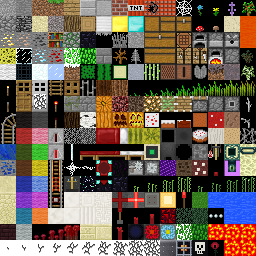
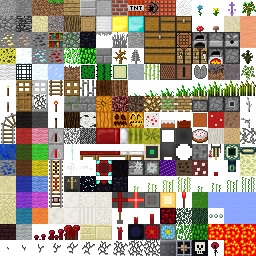
Fix water-entry bobbers, black particles, reed alpha and creative HUD (v43)
- Remove v13 water-entry splash spawn: particles.png tex 33 is the
  fishing-bobber sprite, not a droplet, so entering water spawned
  bobbers (bubbles + splash sound stay, vanilla)
- Remove v13 sprint/landing dust: SmokeParticle colours itself
  random()*0.5 (near-black), reads as fire smoke
- Restore terrain.png alpha channel lost in v39 (RGB re-save):
  13,519 transparent pixels back, reeds cell 73 fixed (115 px),
  spawner cell 251 kept opaque; fixes black bands on reeds and
  black halves on reed break fragments
- XP bar + level now render in creative too (was gated behind
  canHurtPlayer); '...' hotbar slot now drawn as font text (the
  gui.png sprite region is transparent in stock 0.6.1)
- Bump versionCode 42 -> 43

diff --git a/src/world/entity/Entity.cpp b/src/world/entity/Entity.cpp
@@ -488,13 +488,15 @@ void Entity::baseTick()
 		        float zo = (sharedRandom.nextFloat() * 2 - 1) * bbWidth;
 		        level->addParticle(PARTICLETYPE(bubble), x + xo, yt + 1, z + zo, xd, yd - sharedRandom.nextFloat() * 0.2f, zd);
 		    }
-		    // v13: splash droplets on entering water (was commented out;
-		    // SplashParticle is a real Particle subclass now).
-		    for (int i = 0; i < 1 + bbWidth * 20; i++) {
-		        float xo = (sharedRandom.nextFloat() * 2 - 1) * bbWidth;
-		        float zo = (sharedRandom.nextFloat() * 2 - 1) * bbWidth;
-		        level->addParticle(PARTICLETYPE(splash), x + xo, yt + 1, z + zo, xd, yd, zd);
-		    }
+		    // v43: the v13 splash-droplet spawn is REMOVED. SplashParticle
+		    // uses particles.png tex 33, which is NOT a water droplet —
+		    // it is the fishing-bobber sprite (white/red bobber + black
+		    // hook, verified from the sheet + the user video: entering
+		    // water spawned a swarm of bobbers + bubbles, i.e. it looked
+		    // like fishing). The vanilla bubble loop above stays, and the
+		    // splash sound above stays; only the bobber spawn goes.
+		    // (SplashParticle + ParticleType::splash stay for the v24/v25
+		    // thrown-potion impact burst — same sprite, separate trigger.)
 		}
 		fallDistance = 0;
 		wasInWater = true;
@@ -557,17 +559,12 @@ void Entity::checkFallDamage( float ya, bool onGround )
 					Tile::tiles[t]->fallOn(level, xt, yt, zt, this, fallDistance);
 				}
 			}
-			// v13: dust puffs on a hard landing (grey smoke particles at
-			// the feet; count grows with the fall, capped at 8).
-			if (fallDistance > 3.0f) {
-				int n = (int) fallDistance;
-				if (n > 8) n = 8;
-				for (int i = 0; i < n; i++) {
-					float ox = (sharedRandom.nextFloat() * 2 - 1) * 0.4f;
-					float oz = (sharedRandom.nextFloat() * 2 - 1) * 0.4f;
-					level->addParticle("smoke", x + ox, y + 0.1f, z + oz, ox * 0.3f, 0.05f, oz * 0.3f);
-				}
-			}
+			// v43: the v13 landing-dust spawn is REMOVED. It spawned
+			// "smoke" particles whose colour is random()*0.5 (near-black,
+			// SmokeParticle.h), so a hard landing puffed black smoke that
+			// reads as fire/burning — the same black-particle complaint as
+			// the sprint dust (LocalPlayer::tick, also removed in v43).
+			// Modern MC has no landing smoke; nothing else uses this.
 			causeFallDamage(fallDistance);
 			fallDistance = 0;
 		}

diff --git a/src/client/gui/Gui.cpp b/src/client/gui/Gui.cpp
@@ -93,8 +93,15 @@ void Gui::render(float a, bool mouseFree, int xMouse, int yMouse) {
 		renderHunger();
 		renderBubbles();
 		t.endOverrideAndDraw();
-		renderExperience();
 	}
+
+	// v43: the XP bar + level render in creative too (modern MC shows
+	// them in every mode). They used to sit inside the canHurtPlayer()
+	// gate above, so in creative the bar was missing entirely — the
+	// user video (creative test world) shows no XP bar at all above
+	// the hotbar, while the reference has one. Hearts/hunger/bubbles
+	// stay survival-only (correct: creative hides them).
+	renderExperience();
 
 	// v34: boss bar in every game mode (a creative tester summons
 	// with creative skulls, so hiding it behind canHurtPlayer
@@ -974,9 +981,13 @@ void Gui::renderToolBar( float a, int ySlot, const int screenWidth ) {
 
 	if (isMouseLocked && !minecraft->useTouchscreen()) {
 		renderSlot(getNumSlots()-1, (int)x, ySlot, a);
-	} else {
-		blit(screenWidth / 2 + 10 * getNumSlots() - 20 + 4, ySlot + 6, 242, 252, 14, 4, 14, 4);
 	}
+	// v43: the "..." label is drawn as font text below (after the
+	// override batch), NOT blit here. The old blit sampled gui.png
+	// (242,252,14x4), which is fully transparent in the stock 0.6.1
+	// sheet — and it landed inside this gui_blocks batch, so it
+	// sampled grass pixels instead of dots. The slot rendered as an
+	// empty dark slot.
 
 	minecraft->textures->loadAndBindTexture("gui/gui_blocks.png");
 	t.endOverrideAndDraw();
@@ -996,6 +1007,19 @@ void Gui::renderToolBar( float a, int ySlot, const int screenWidth ) {
 	t.endOverrideAndDraw();
 	glEnable(GL_DEPTH_TEST);
 	glEnable(GL_TEXTURE_2D);
+
+	// v43: "..." label for the block-selection slot (see the note at
+	// the old blit site above). Font text, centred in the last slot,
+	// like the modern HUD reference. Same visibility rule as before:
+	// shown whenever the last slot is not a real item slot (touch
+	// always; on PC only while the mouse is free).
+	if (!isMouseLocked || minecraft->useTouchscreen()) {
+		Font* dotsFont = minecraft->font;
+		const char* dots = "...";
+		float dotsW = (float)dotsFont->width(dots);
+		float dotsX = (float)(screenWidth / 2 + 10 * getNumSlots() - 10) - dotsW / 2.0f;
+		dotsFont->drawShadow(dots, dotsX, (float)(ySlot + 6), 0xFFFFFFFF);
+	}
 
 	//w.stop();
 	//w.printEvery(100, "gui-slots");

diff --git a/src/client/player/LocalPlayer.cpp b/src/client/player/LocalPlayer.cpp
@@ -168,12 +168,12 @@ void LocalPlayer::tick() {
 				? FoodConstants::EXHAUSTION_SPRINT_PER_BLOCK
 				: FoodConstants::EXHAUSTION_WALK_PER_BLOCK;
 			foodData.addExhaustion(dist * rate);
-			// v13: dust puffs while sprinting on the ground.
-			if (input && input->sprinting && onGround && dist > 0.05f && random.nextFloat() < 0.35f) {
-				float ox = (random.nextFloat() * 2 - 1) * 0.3f;
-				float oz = (random.nextFloat() * 2 - 1) * 0.3f;
-				level->addParticle("smoke", x + ox, y + 0.1f, z + oz, ox * 0.2f, 0.03f, oz * 0.2f);
-			}
+			// v43: the v13 sprint-dust spawn is REMOVED. It spawned "smoke"
+			// particles while sprinting, but SmokeParticle colours itself
+			// random()*0.5 (near-black, SmokeParticle.h) — so walking /
+			// sprinting trailed black puffs that read as fire/burning
+			// smoke (user video ~11.6 s, near the reeds). Modern MC has
+			// no sprint smoke; the exhaustion cost above is untouched.
 		}
 		_prevX = x; _prevZ = z;
 	}

diff --git a/ROADMAP.md b/ROADMAP.md
@@ -2674,10 +2674,124 @@ Each version is ONE coherent batch of features, shipped as a new APK
     CI `./gradlew assembleDebug` SUCCESS (run 42554887100, ~5m43s, 03:10:16–03:15:59 UTC 2026-11-09); APK `minecraft-mcpe-android-0.6.1-debug-v42.apk` 12,950,630 B, sha256 a5b862dc9c66bdf89704dbcfc7281ed3f73660aa8722b82d3da0b5a9adc9e6c0, versionCode 42, `apksigner verify` v1+v2 true, `unzip -t` clean; the APK itself was re-checked to contain the new code in its `libminecraftpe.so` (arm64 10,269,512 B / armv7 8,798,084 B — byte-identical sizes to the local build; the .so is stripped so `nm` shows no symbol table — verified instead via the local object files, see above).
   ### Known limits / debts
   - Search is the one unproven-on-device piece: it rides the sign-editing keyboard path, but no one has typed into it on the realme 8 yet. If the soft keyboard does not deliver chars there, the fallback is the chat-style native dialog (`createUserInput`) — same filter, worse UX.
-  - Inventory grid is display-only in stage 1: tapping an inventory item does nothing (no manual grid placement — there is no crafting container in the tree; placing items by hand into the 3x3 grid is the v43 manual-grid job, if the user wants it).
+  - Inventory grid is display-only in stage 1: tapping an inventory item does nothing (no manual grid placement — there is no crafting container in the tree; placing items by hand into the 3x3 grid is the v44 manual-grid job, if the user wants it).
   - No craftable-only toggle (screenshot's green check button) and no recipe-book collapse button (green book icon) yet — both stage-2 polish.
-  - The 2x2 inventory crafting screen is the SAME `PaneCraftingScreen` with `SIZE_2X2`, so it gets the new layout too — but its recipes are only the 2x2 ones, and the grid shown is still the 3x3 auto-fill display (recipes are ≤2x2, so the third row/column stays empty). v43 (inventory 2x2 stage) should decide whether to shrink that display to 2x2.
+  - The 2x2 inventory crafting screen is the SAME `PaneCraftingScreen` with `SIZE_2X2`, so it gets the new layout too — but its recipes are only the 2x2 ones, and the grid shown is still the 3x3 auto-fill display (recipes are ≤2x2, so the third row/column stays empty). v44 (inventory 2x2 stage) should decide whether to shrink that display to 2x2.
   - All of it is build-only until a live test on device (see the "Next" v42 test list).
+- **v43 — Bug-fix batch: 4 user reports 2026-11-09 10:21 (SHIPPED,
+  build-only).** Diagnosed from the code + the user's video
+  (`940b2e0c...mp4`, 20.6 s) + the HUD reference
+  (`1000530336_1_2ubt.jpg`), NOT guessed. One correction to the
+  brief's hypothesis: the black particles at ~11.6 s are NOT the v13
+  sprint dust — the video proves they are reed block-break fragments
+  (see (b) below). The sprint/landing dust is still removed, as the
+  other black-particle source named in the brief.
+  ### Audit (read from code + video frames before writing anything)
+  - **(a) Water entry = fishing.** `Entity::baseTick` spawned TWO
+    particle loops on entering water: vanilla bubbles (`PARTICLETYPE
+    (bubble)`, tex 32 = blue ring in `particles.png`) AND the v13
+    splash loop (`PARTICLETYPE(splash)`, `SplashParticle` tex 33).
+    v13's comment claimed tex 33 is "a small white droplet, next to
+    the bubble sprite" — WRONG. The sheet's cell 33 alpha-map is a
+    white/red bobber with a black hook (the classic fishing-bobber
+    sprite); frame ~3 s of the video shows ~13 of them + blue bubble
+    rings the moment the player enters the water. Entering water
+    therefore looked exactly like casting a fishing rod.
+  - **(b) Black particles near the reeds.** Frame 10.5 s: the player
+    holds the reeds (white touch circle on the cane, D-pad forward
+    held) and a burst of ~15 small green+black squares flies out;
+    11.0–11.6 s: 1–3 leftover squares sit on the sand. Those are
+    `TerrainParticle` fragments from `ParticleEngine::destroy()` —
+    reed-texture squares whose "transparent" background renders
+    opaque black. Same root cause as (c). The v13 sprint dust
+    (`LocalPlayer::tick`, ~35% of sprinting ticks) and landing dust
+    (`Entity::checkFallDamage`, fall > 3) are a SECOND, independent
+    black-particle source: both spawn "smoke" particles whose colour
+    is `random()*0.5` (`SmokeParticle.h`) — near-black, not the grey
+    the v13 entry claimed — so they read as fire/burning smoke.
+  - **(c) Black stripes on the reeds = lost alpha channel.**
+    `terrain.png` cell 73 (reeds) has 115/256 pixels of opaque black
+    where the sprite should be transparent. Root cause, found by
+    `git log` on the file: v39 (commit 8b0af9e, blaze spawner tile)
+    re-saved `terrain.png` as RGB — every version before it was
+    RGBA. The alpha channel (13,519 transparent pixels tree-wide:
+    reeds, flowers, tall grass, crops, saplings, glass, …) was
+    destroyed in that one save; the RGB values under the old
+    transparency survived byte-identical (verified: 0 mismatches),
+    only the alpha was lost. The renderer already handles alpha
+    (`GL_ALPHA_TEST` around terrain, `GL_RGBA` upload when the PNG
+    has alpha — `AppPlatform_android.h:382` decodes PNG → ARGB),
+    so restoring the channel restores stock 0.6.1 behaviour.
+  - **(d) XP bar + inventory.** The video is a CREATIVE world —
+    proven, not assumed: no hearts/hunger/XP strip render above the
+    hotbar at all (pixel scan of the HUD band: no black XP strip, no
+    red hearts), while the render path for survival was verified
+    intact (`blit` inside `beginOverride` appends correctly;
+    `renderExperience` draws its black strip unconditionally when
+    called). In creative `Gui::render` gated `renderExperience()`
+    behind `canHurtPlayer()`, so the bar was missing entirely —
+    while the reference (survival) shows it. Modern MC shows the XP
+    bar + level in creative too; hearts/hunger correctly stay
+    survival-only. Second defect, same screen: the last hotbar slot
+    ("...") renders as an empty dark slot. Its blit samples
+    `gui.png` (242,252,14x4), which is fully transparent in the
+    STOCK 0.6.1 sheet (verified against the initial import too) —
+    and the blit landed inside the `gui_blocks.png` override batch,
+    so it sampled grass pixels instead. The "..." sprite never
+    existed in this tree. NOT fixed by guessing: the hotbar has 8
+    slots (7 usable + "...", `MAX_SELECTION_SIZE` 9) vs the
+    reference's 9 usable + "..." (10 cells) — widening that means
+    changing the selection size everywhere (inventory, touch, MP),
+    so it is left as an open question for the user, not silently
+    changed (see "Next").
+  ### What shipped
+  - **(a)** The v13 splash spawn loop in `Entity::baseTick` is
+    REMOVED (comment records the bobber diagnosis). The vanilla
+    bubble loop and the `random.splash` sound stay — entering water
+    now looks like normal MC (bubbles only), not fishing.
+    `SplashParticle` / `ParticleType::splash` / the `LevelRenderer`
+    dispatch stay: the v24/v25 thrown-potion impact burst still
+    uses them (same bobber sprite, separate trigger — see debts).
+  - **(b)** BOTH v13 dust spawns removed: sprint dust
+    (`LocalPlayer::tick`) and landing dust
+    (`Entity::checkFallDamage`). Sprint exhaustion, hunger drain and
+    fall damage are untouched. Modern MC has neither puff.
+  - **(b)+(c)** `terrain.png` alpha RESTORED: RGB from the current
+    file + alpha from the last RGBA version (v38, 781d31c), cell 251
+    (v39 blaze-spawner sprite, a fully opaque cage texture) forced
+    opaque. Verified: RGB differs from v38 only in cell 251; every
+    restored-transparent pixel keeps its original RGB byte-identical;
+    13,519 transparent pixels back; reeds cell 73 is 115 transparent
+    / 141 opaque. The black bands on the reeds, the black halves of
+    reed break-fragments, and the black backgrounds of every other
+    cutout plant (flowers, tall grass, crops, saplings) are gone in
+    one fix.
+  - **(d)** `renderExperience()` moved out of the `canHurtPlayer()`
+    gate in `Gui::render` — the XP bar + green level number now
+    render in creative too (hearts/hunger/bubbles stay
+    survival-only). The "..." slot now draws "..." as font text
+    (`Font::drawShadow`, centred in the last slot, same visibility
+    rule as the old blit) instead of the dead sprite blit.
+  - Version bump 42 -> 43 (`app/build.gradle`,
+    `AndroidManifest.xml`, `build-apk.sh`).
+  ### Known limits / debts
+  - A thrown splash potion (v24/v25) still bursts into bobber
+    sprites on impact — `ThrownPotion` uses the same
+    `ParticleType::splash`. It was left alone (the user never
+    reported it, and the burst needs a real droplet texture, not a
+    spawn removal). Follow-up: give the splash a proper droplet
+    sprite (particles.png has blue droplet cells in row 1) or reuse
+    the bubble sprite.
+  - The level number sits one row above the hearts on the 8-slot
+    (160 px) touch hotbar (v14 rule: hearts 81 px + hunger 81 px =
+    162 px leave no gap on that row). The reference centres it on
+    the hearts row — only possible on a wider hotbar; see the
+    7-vs-9 usable slots question in "Next".
+  - The 2px hearts/hunger overlap on the 160 px hotbar (81+81 >
+    160) is unchanged from v14 — marginal, icons already overlap
+    1 px by design.
+  - All of it is build-only until a live test on device (see the
+    "Next" v43 test list).
 - **v37 — Multi-wither boss bar: lowest-HP wither (SHIPPED,
   build-only).** Pays the v36 "Next" candidate — the last
   wither-only debt. One batch, one file of gameplay code.
@@ -3834,7 +3948,43 @@ Each version is ONE coherent batch of features, shipped as a new APK
   fallback until this stage passes. HONEST LIMIT: if the 3-block
   window proves unhittable on touch in practice, report it — the
   fix is a bigger pick radius, not a proximity auto-reflect.
-- **Next version (v43 candidate): inventory crafting 2x2 (stage 2 of the modern crafting UI) + the v42 device test list.** The crafting table (v42) is done; the same screen opened from the inventory (block-selection screen → Craft button, `SIZE_2X2`) now needs its stage-2 pass: shrink the auto-fill display to a 2x2 grid (v42 still shows the 3x3 frame with an empty third row/column on 2x2 recipes), and decide with the user whether manual grid placement (tap an inventory item → place it in the grid) is wanted — there is no crafting container in the tree, so that is real new work, not a layout tweak. Also in the same batch if cheap: the craftable-only toggle (green check button next to the search bar — needs a drawn checkmark, the font has none) and the recipe-book collapse button (green book icon). V42 DEVICE TEST LIST (do this first, before v43 code): open a crafting table while holding D-pad forward — repeat 5x — the player must stop on the same tick the screen opens; same repro from inventory 2x2, from a chest, and from a furnace; tap the search field, type "pick", check the grid filters live, backspace, Esc/back closes the keyboard (not the screen); switch tabs (All/Tools/Blocks/Food/Redstone) and check Mechanisms recipes finally appear; paginate a full tab with < > and check "N/M"; click a recipe → grid fills with have/need counts, tap the result → the item is crafted and counts refresh; tap an uncraftable recipe → result dimmed, tap does nothing; stonecutter screen still works (single tab); re-check the v31–v41 lists and the old features, no crash. The v41 APK stays the fallback until this stage passes.
+- **Device verification for the v43 bug-fix batch (4 user reports,
+  2026-11-09 10:21 — do this first, before v44 code).** Uninstall
+  the old APK first (fresh CI debug keystore). (a) Walk into water —
+  check NO red-white bobbers appear, only blue bubble rings + the
+  splash sound; (b) sprint across sand/grass and jump off a 4+ block
+  ledge — check NO black smoke puffs trail you or burst on landing;
+  break a reed block — check the fragments are green reed bits with
+  NO black halves; (c) look at reeds, flowers, tall grass, wheat and
+  saplings — check NO black background/bands on any of them
+  (reeds must be green stalks on clear background); (d) in CREATIVE:
+  check the XP bar (dark strip, green fill if any XP) + level number
+  render above the hotbar even with 0 XP (empty dark strip is
+  correct), and the last hotbar slot shows "..."; in SURVIVAL:
+  hearts + hunger + XP bar all render as in v14; re-check the
+  v31–v42 lists (fortress, spawner, boss bar, fireball reflection,
+  crafting UI v42 + the v42 movement-freeze fix) and the old
+  features, no crash. The v42 APK stays the fallback until this
+  stage passes.
+- **Next version (v44 candidate): inventory crafting 2x2 (stage 2 of
+  the modern crafting UI) + the v43 device test list above.** The
+  crafting table (v42) is done; the same screen opened from the
+  inventory (block-selection screen → Craft button, `SIZE_2X2`) now
+  needs its stage-2 pass: shrink the auto-fill display to a 2x2 grid
+  (v42 still shows the 3x3 frame with an empty third row/column on
+  2x2 recipes), and decide with the user whether manual grid
+  placement (tap an inventory item → place it in the grid) is wanted
+  — there is no crafting container in the tree, so that is real new
+  work, not a layout tweak. Also in the same batch if cheap: the
+  craftable-only toggle (green check button next to the search bar —
+  needs a drawn checkmark, the font has none) and the recipe-book
+  collapse button (green book icon). OPEN QUESTION from v43 (ask the
+  user, do not guess): the touch hotbar has 7 usable slots + "..."
+  (`MAX_SELECTION_SIZE` 9) while the modern reference shows 9 usable
+  + "..." — is the narrower hotbar part of "inventory kelihatan
+  aneh", and is widening it to 9 usable slots wanted? That change
+  touches selection size, touch areas and MP, so it needs an
+  explicit yes. V42 DEVICE TEST LIST (do this first, before v43 code): open a crafting table while holding D-pad forward — repeat 5x — the player must stop on the same tick the screen opens; same repro from inventory 2x2, from a chest, and from a furnace; tap the search field, type "pick", check the grid filters live, backspace, Esc/back closes the keyboard (not the screen); switch tabs (All/Tools/Blocks/Food/Redstone) and check Mechanisms recipes finally appear; paginate a full tab with < > and check "N/M"; click a recipe → grid fills with have/need counts, tap the result → the item is crafted and counts refresh; tap an uncraftable recipe → result dimmed, tap does nothing; stonecutter screen still works (single tab); re-check the v31–v41 lists and the old features, no crash. The v41 APK stays the fallback until this stage passes.
   The dragon immunity stays queued right behind crafting: it is
   still the same one-line family as v38/v40
   (`EnderDragon::hurt` rejects fireballs whose ownerId is its
